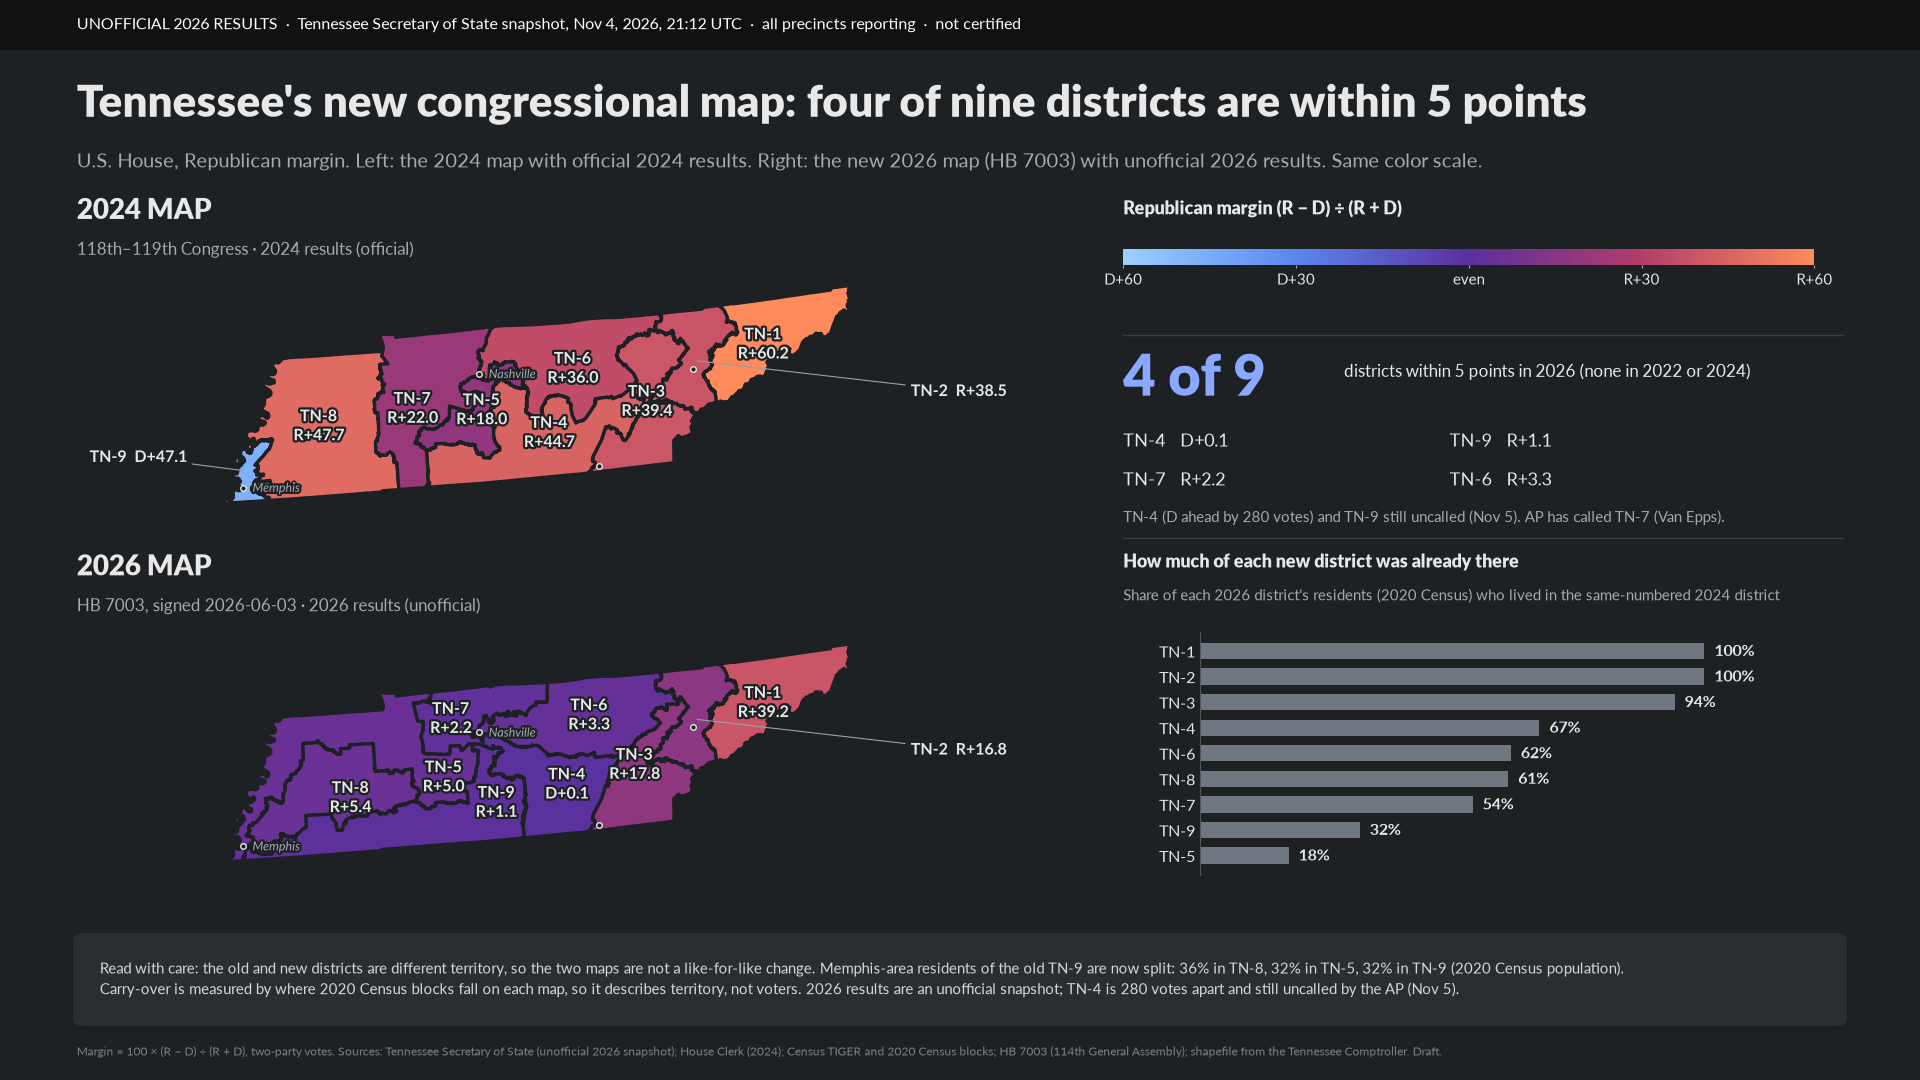
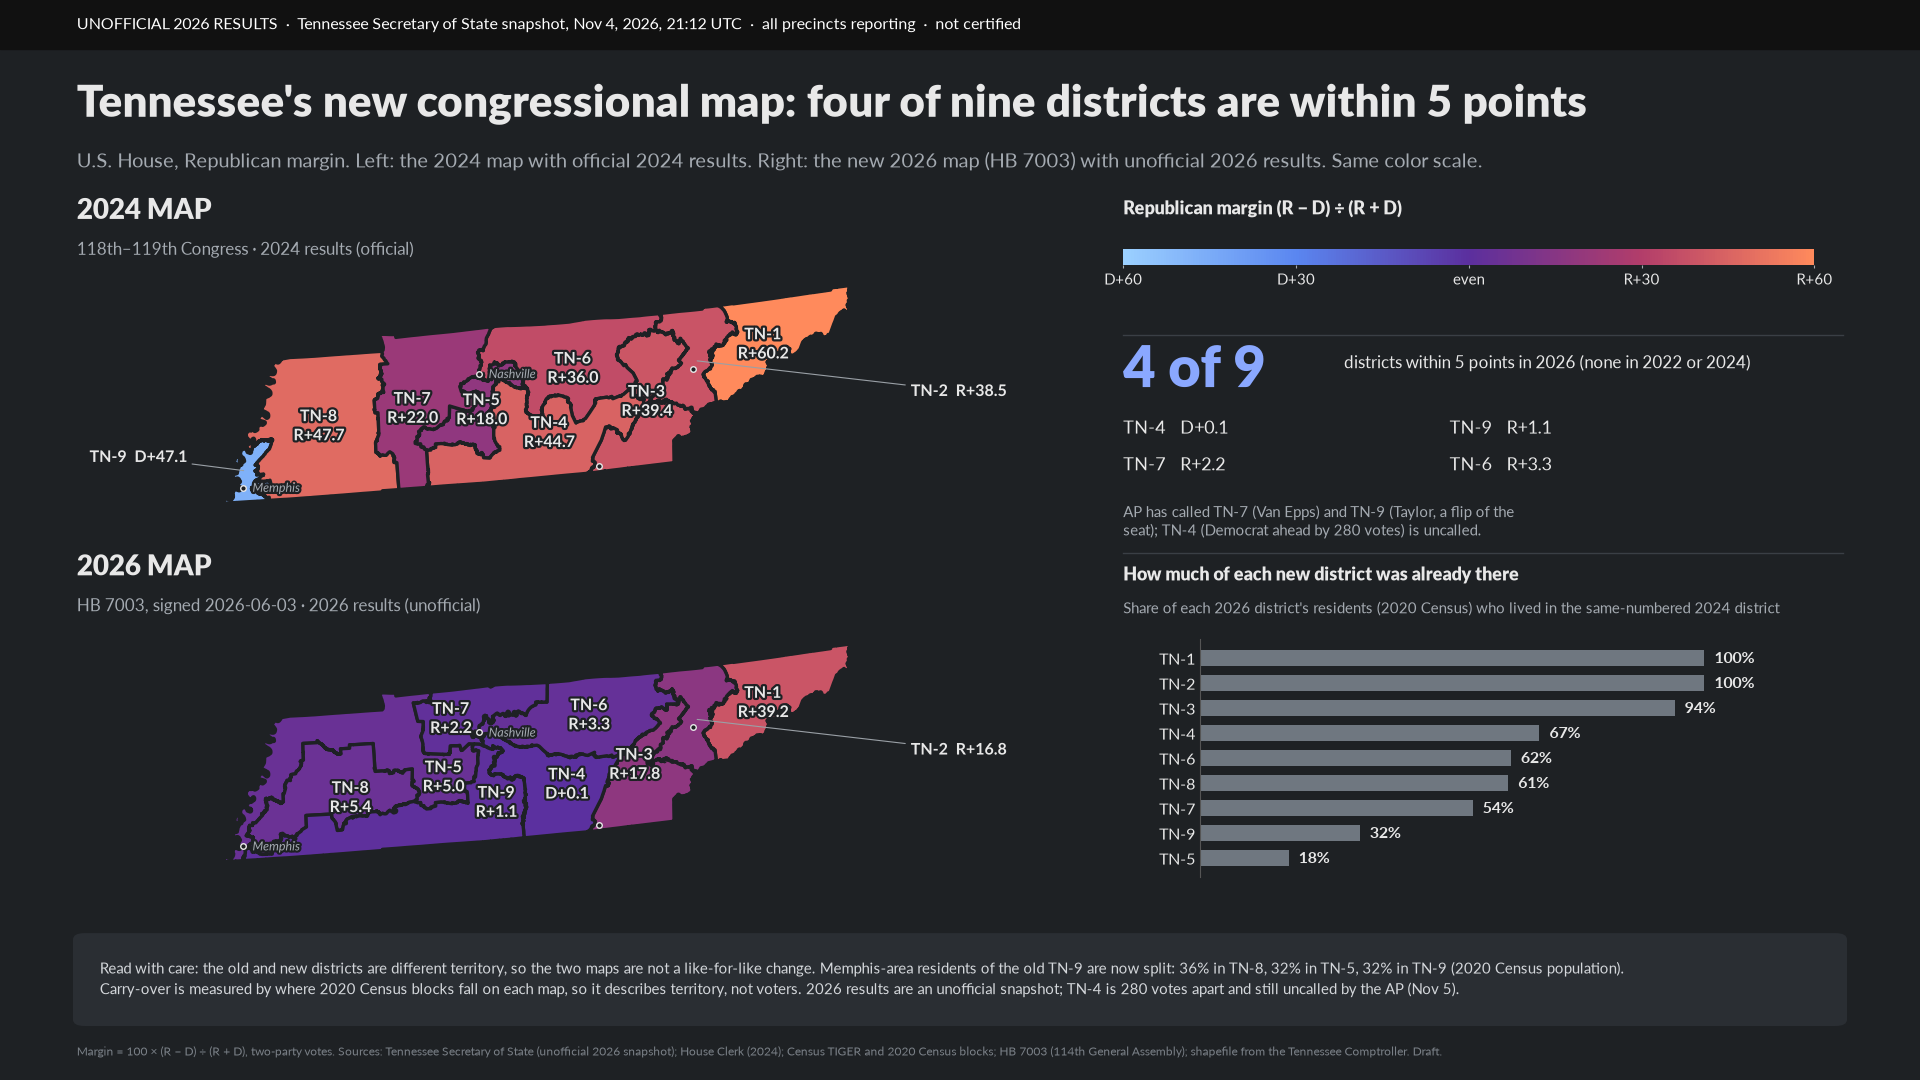
Add Tennessee 2026 maps page (draft, unofficial results) as of 2026-11-05 22:09 UTC

Changed region(s): [[0.5625, 0.3972, 0.9375, 0.7944], [0.6875, 0.3361, 0.9062, 0.3667], [0.5625, 0.3056, 0.6562, 0.3667]]

diff --git a/tn-2026/index.html b/tn-2026/index.html
@@ -8,4 +8,4 @@ figure{margin:28px 0}img{width:100%;height:auto;border-radius:6px;background:#ff
 <main><h1>Tennessee 2026 election maps (draft)</h1>
 <p>Maps from a work-in-progress analysis of Tennessee elections, 2000&ndash;2026. The size of the 2026 shift depends heavily on the comparison year: it is large against 2020, 2022 and 2024 and much smaller against the 2018 midterm, where the cities moved toward Democrats and rural counties split. The one result that holds against every comparison year is that metro counties moved more toward Democrats, or less toward Republicans, than rural counties. Results shown are an unofficial election-night snapshot and will change as counties canvass and the state certifies. This page is a draft: nothing here is a final conclusion.</p>
 <div class="note">Margin = 100 &times; (R &minus; D) &divide; (R + D), two-party votes. Maps show where results moved, not how individual voters changed. Sources: Tennessee Secretary of State (unofficial 2026 snapshot); OpenElections TN checked against U.S. House Clerk; Census Bureau; HB 7003 (114th General Assembly).</div>
-<figure><a href="img/hero_arrows_16x9.png"><img src="img/hero_arrows_16x9.png" alt="Two maps of Tennessee counties, each county drawn as an arrow. Arrows point left where Democrats gained on Republicans and right where Republicans gained; longer arrows are bigger moves and thicker arrows are counties with more votes. Left map: the 2026 U.S. Senate race compared with 2020 (same seat, same two candidates); every arrow points left. Right map: 2026 U.S. House votes compared with 2018; urban counties point left, while many rural counties are short red arrows pointing right. Under each map: the three biggest moves toward each party and the median county. Below: the Democratic share of the two-party U.S. House vote (40% in 2018, 35% in 2022, 34% in 2024, 45% in 2026), median county shifts by county type, and four of nine House districts decided by under 5 points in 2026." loading="lazy"></a><figcaption><b>Since 2020, every Tennessee county moved toward Democrats. Since 2018, the cities did; rural counties split.</b><br>Left: U.S. Senate, 2026 vs 2020: 95 of 95 counties moved toward Democrats; median 10.9 points; biggest moves Rutherford, Cheatham and Sumner. Right: U.S. House, 2026 vs 2018: 66 counties moved toward Democrats and 29 toward Republicans (biggest: Overton, a county of about 6,100 two-party votes); median 3.3 points toward Democrats; the median metro county moved 9.3 points toward Democrats; rural counties split, 14 toward Democrats and 17 toward Republicans. From 2020 to 2026 Republican Senate votes fell 38% and Democratic votes 15%, so part of the 2020 comparison reflects who voted in a midterm versus a presidential year.<br><a href="img/hero_arrows_16x9.png">Open full size</a></figcaption></figure><figure><a href="img/fig12_baseline_robustness.png"><img src="img/fig12_baseline_robustness.png" alt="Dot chart with one row per comparison year (2006, 2010, 2014, 2018, 2020, 2022 and 2024). Each row shows the median change in the Republican-minus-Democratic U.S. House margin for metro counties (violet dot) and rural counties (amber dot). The violet dot is left of the amber dot in every row (in the 2006 row both dots are right of zero: both types moved toward Republicans, metro less so). A table on the right gives the metro-minus-rural gap with a 95 percent bootstrap interval and, as &#x27;X of Y counties&#x27;, how many of the comparable counties (of any type) moved toward Democrats." loading="lazy"></a><figcaption><b>Against every comparison year, metro counties moved more toward Democrats, or less toward Republicans, than rural counties</b><br>In all seven rows metro counties shifted further toward Democrats (or less toward Republicans) than rural counties, by 3.3 points against 2022 up to 41.3 points against 2006, and each 95% interval excludes zero. Whether rural counties moved toward Democrats or Republicans depends on the year. Counts differ by row because a county is left out when either election compared had a district with only one major party on the ballot (2014: TN-1 had no Democrat, 12 counties; 2020: TN-5 had no Republican, 3 counties). Intervals treat counties as independent, which neighbors are not, so they are likely too narrow.<br><a href="img/fig12_baseline_robustness.png">Open full size</a></figcaption></figure><figure><a href="img/hero_arrows_4x5_vs2020.png"><img src="img/hero_arrows_4x5_vs2020.png" alt="Large arrow map of Tennessee, U.S. Senate 2026 compared with 2020. Every arrow points left (toward Democrats). Labeled: Shelby, Davidson, Knox and Hamilton (the biggest counties) and Rutherford (biggest move) and Clay (smallest move)." loading="lazy"></a><figcaption><b>Portrait card (4:5): 2026 vs 2020, every county moved toward Democrats</b><br>Median county shift: 10.9 points toward Democrats. See the caution about midterm versus presidential-year electorates.<br><a href="img/hero_arrows_4x5_vs2020.png">Open full size</a></figcaption></figure><figure><a href="img/hero_arrows_4x5_vs2018.png"><img src="img/hero_arrows_4x5_vs2018.png" alt="Large arrow map of Tennessee, U.S. House 2026 compared with 2018. Urban counties have blue arrows pointing left; many rural counties have short red arrows pointing right. Labeled: Sullivan and Knox (large moves toward Democrats), Overton (largest move toward Republicans) and the four biggest counties." loading="lazy"></a><figcaption><b>Portrait card (4:5): 2026 vs 2018, the cities moved toward Democrats; rural counties split</b><br>29 of 95 counties moved toward Republicans; median county 3.3 points toward Democrats. House district lines, candidates and uncontested seats differ between 2018 and 2026.<br><a href="img/hero_arrows_4x5_vs2018.png">Open full size</a></figcaption></figure><figure><a href="img/fig6_districts_old_vs_new_map.png"><img src="img/fig6_districts_old_vs_new_map.png" alt="Two maps of Tennessee&#x27;s nine U.S. House districts colored by Republican margin from light blue (Democratic) through purple (even) to coral (Republican): the 2024 map with 2024 official results, and the 2026 map (HB 7003) with unofficial 2026 results. In 2026, TN-4 is D+0.1, TN-9 R+1.1, TN-7 R+2.2 and TN-6 R+3.3." loading="lazy"></a><figcaption><b>Tennessee&#x27;s new congressional map: four of nine districts are within 5 points</b><br>Old and new districts cover different territory, so the two maps are not a like-for-like change. As of Nov 5 the AP has called TN-7 for Matt Van Epps and had not called TN-4 or TN-9 (per Google&#x27;s AP results panels pasted by the project owner).<br><a href="img/fig6_districts_old_vs_new_map.png">Open full size</a></figcaption></figure><figure><a href="img/fig10_arrow_map_vs2020.png"><img src="img/fig10_arrow_map_vs2020.png" alt="Large map of Tennessee with one arrow per county. Every arrow points left (toward Democrats). Among the longest arrows are those around Nashville (Rutherford, Cheatham, Sumner, Wilson, Davidson), Knoxville (Knox) and Chattanooga (Hamilton)." loading="lazy"></a><figcaption><b>The arrow map, large: 2026 vs 2020 (U.S. Senate)</b><br>Arrow length = change in the Republican-minus-Democratic margin; thickness = votes cast. Position = population-weighted center of each county (2020 Census).<br><a href="img/fig10_arrow_map_vs2020.png">Open full size</a></figcaption></figure><figure><a href="img/fig1_dark_bubble_swing.png"><img src="img/fig1_dark_bubble_swing.png" alt="Dark map of Tennessee with one circle per county, sized by 2026 Senate votes cast and colored from light blue (largest move toward Democrats) through purple (no change) to coral (toward Republicans). Every circle is blue or blue-violet." loading="lazy"></a><figcaption><b>The bubble map: change in the Republican margin by county, 2020 to 2026</b><br>Circle area key: 250,000, 50,000 and 10,000 votes. Compared with the 2018 midterm the pattern is different (see the arrow maps).<br><a href="img/fig1_dark_bubble_swing.png">Open full size</a></figcaption></figure><p><small>Page generated 2026-11-05 17:36 UTC. Separate from the 2026 margin-maps page at the site root.</small></p></main></body></html>
+<figure><a href="img/hero_arrows_16x9.png"><img src="img/hero_arrows_16x9.png" alt="Two maps of Tennessee counties, each county drawn as an arrow. Arrows point left where Democrats gained on Republicans and right where Republicans gained; longer arrows are bigger moves and thicker arrows are counties with more votes. Left map: the 2026 U.S. Senate race compared with 2020 (same seat, same two candidates); every arrow points left. Right map: 2026 U.S. House votes compared with 2018; urban counties point left, while many rural counties are short red arrows pointing right. Under each map: the three biggest moves toward each party and the median county. Below: the Democratic share of the two-party U.S. House vote (40% in 2018, 35% in 2022, 34% in 2024, 45% in 2026), median county shifts by county type, and four of nine House districts decided by under 5 points in 2026." loading="lazy"></a><figcaption><b>Since 2020, every Tennessee county moved toward Democrats. Since 2018, the cities did; rural counties split.</b><br>Left: U.S. Senate, 2026 vs 2020: 95 of 95 counties moved toward Democrats; median 10.9 points; biggest moves Rutherford, Cheatham and Sumner. Right: U.S. House, 2026 vs 2018: 66 counties moved toward Democrats and 29 toward Republicans (biggest: Overton, a county of about 6,100 two-party votes); median 3.3 points toward Democrats; the median metro county moved 9.3 points toward Democrats; rural counties split, 14 toward Democrats and 17 toward Republicans. From 2020 to 2026 Republican Senate votes fell 38% and Democratic votes 15%, so part of the 2020 comparison reflects who voted in a midterm versus a presidential year.<br><a href="img/hero_arrows_16x9.png">Open full size</a></figcaption></figure><figure><a href="img/fig12_baseline_robustness.png"><img src="img/fig12_baseline_robustness.png" alt="Dot chart with one row per comparison year (2006, 2010, 2014, 2018, 2020, 2022 and 2024). Each row shows the median change in the Republican-minus-Democratic U.S. House margin for metro counties (violet dot) and rural counties (amber dot). The violet dot is left of the amber dot in every row (in the 2006 row both dots are right of zero: both types moved toward Republicans, metro less so). A table on the right gives the metro-minus-rural gap with a 95 percent bootstrap interval and, as &#x27;X of Y counties&#x27;, how many of the comparable counties (of any type) moved toward Democrats." loading="lazy"></a><figcaption><b>Against every comparison year, metro counties moved more toward Democrats, or less toward Republicans, than rural counties</b><br>In all seven rows metro counties shifted further toward Democrats (or less toward Republicans) than rural counties, by 3.3 points against 2022 up to 41.3 points against 2006, and each 95% interval excludes zero. Whether rural counties moved toward Democrats or Republicans depends on the year. Counts differ by row because a county is left out when either election compared had a district with only one major party on the ballot (2014: TN-1 had no Democrat, 12 counties; 2020: TN-5 had no Republican, 3 counties). Intervals treat counties as independent, which neighbors are not, so they are likely too narrow.<br><a href="img/fig12_baseline_robustness.png">Open full size</a></figcaption></figure><figure><a href="img/hero_arrows_4x5_vs2020.png"><img src="img/hero_arrows_4x5_vs2020.png" alt="Large arrow map of Tennessee, U.S. Senate 2026 compared with 2020. Every arrow points left (toward Democrats). Labeled: Shelby, Davidson, Knox and Hamilton (the biggest counties) and Rutherford (biggest move) and Clay (smallest move)." loading="lazy"></a><figcaption><b>Portrait card (4:5): 2026 vs 2020, every county moved toward Democrats</b><br>Median county shift: 10.9 points toward Democrats. See the caution about midterm versus presidential-year electorates.<br><a href="img/hero_arrows_4x5_vs2020.png">Open full size</a></figcaption></figure><figure><a href="img/hero_arrows_4x5_vs2018.png"><img src="img/hero_arrows_4x5_vs2018.png" alt="Large arrow map of Tennessee, U.S. House 2026 compared with 2018. Urban counties have blue arrows pointing left; many rural counties have short red arrows pointing right. Labeled: Sullivan and Knox (large moves toward Democrats), Overton (largest move toward Republicans) and the four biggest counties." loading="lazy"></a><figcaption><b>Portrait card (4:5): 2026 vs 2018, the cities moved toward Democrats; rural counties split</b><br>29 of 95 counties moved toward Republicans; median county 3.3 points toward Democrats. House district lines, candidates and uncontested seats differ between 2018 and 2026.<br><a href="img/hero_arrows_4x5_vs2018.png">Open full size</a></figcaption></figure><figure><a href="img/fig6_districts_old_vs_new_map.png"><img src="img/fig6_districts_old_vs_new_map.png" alt="Two maps of Tennessee&#x27;s nine U.S. House districts colored by Republican margin from light blue (Democratic) through purple (even) to coral (Republican): the 2024 map with 2024 official results, and the 2026 map (HB 7003) with unofficial 2026 results. In 2026, TN-4 is D+0.1, TN-9 R+1.1, TN-7 R+2.2 and TN-6 R+3.3." loading="lazy"></a><figcaption><b>Tennessee&#x27;s new congressional map: four of nine districts are within 5 points</b><br>Old and new districts cover different territory, so the two maps are not a like-for-like change. As of Nov 5 the AP has called TN-7 for Matt Van Epps and TN-9 for Brent Taylor (Republican, flipping the seat) and had not called TN-4 (per Google&#x27;s AP results panels pasted by the project owner).<br><a href="img/fig6_districts_old_vs_new_map.png">Open full size</a></figcaption></figure><figure><a href="img/fig10_arrow_map_vs2020.png"><img src="img/fig10_arrow_map_vs2020.png" alt="Large map of Tennessee with one arrow per county. Every arrow points left (toward Democrats). Among the longest arrows are those around Nashville (Rutherford, Cheatham, Sumner, Wilson, Davidson), Knoxville (Knox) and Chattanooga (Hamilton)." loading="lazy"></a><figcaption><b>The arrow map, large: 2026 vs 2020 (U.S. Senate)</b><br>Arrow length = change in the Republican-minus-Democratic margin; thickness = votes cast. Position = population-weighted center of each county (2020 Census).<br><a href="img/fig10_arrow_map_vs2020.png">Open full size</a></figcaption></figure><figure><a href="img/fig1_dark_bubble_swing.png"><img src="img/fig1_dark_bubble_swing.png" alt="Dark map of Tennessee with one circle per county, sized by 2026 Senate votes cast and colored from light blue (largest move toward Democrats) through purple (no change) to coral (toward Republicans). Every circle is blue or blue-violet." loading="lazy"></a><figcaption><b>The bubble map: change in the Republican margin by county, 2020 to 2026</b><br>Circle area key: 250,000, 50,000 and 10,000 votes. Compared with the 2018 midterm the pattern is different (see the arrow maps).<br><a href="img/fig1_dark_bubble_swing.png">Open full size</a></figcaption></figure><p><small>Page generated 2026-11-05 22:09 UTC. Separate from the 2026 margin-maps page at the site root.</small></p></main></body></html>
